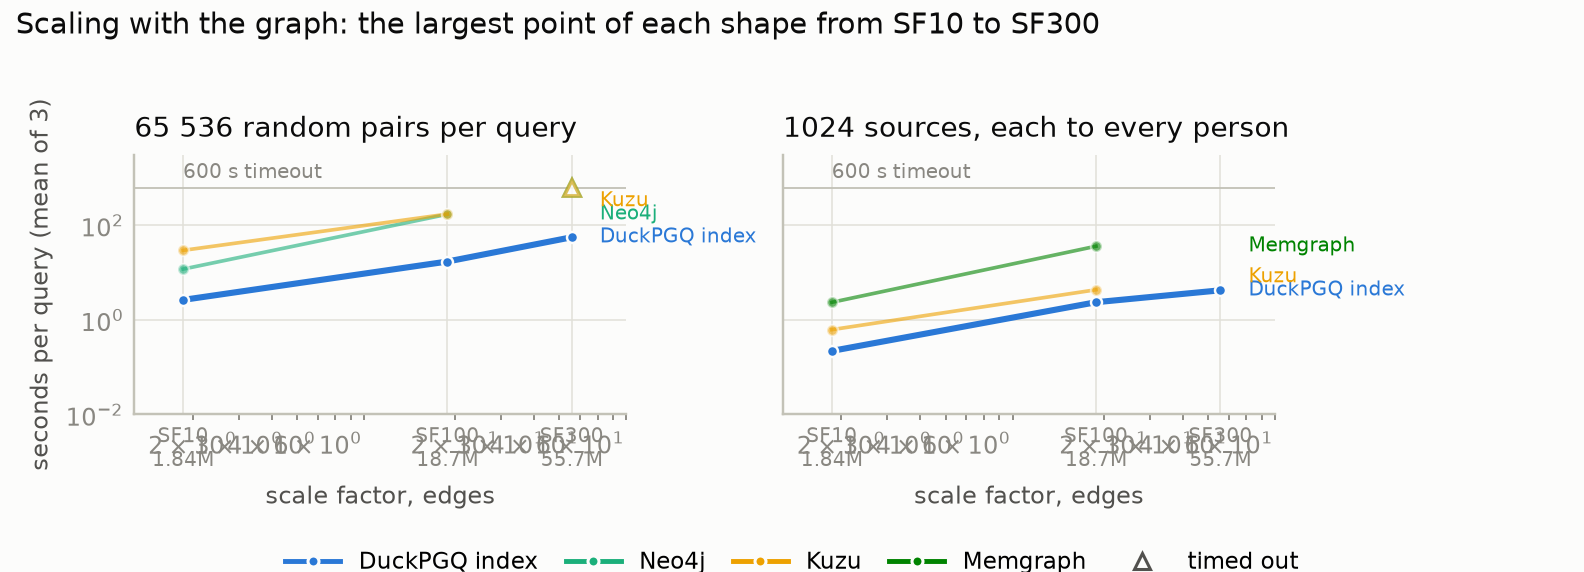
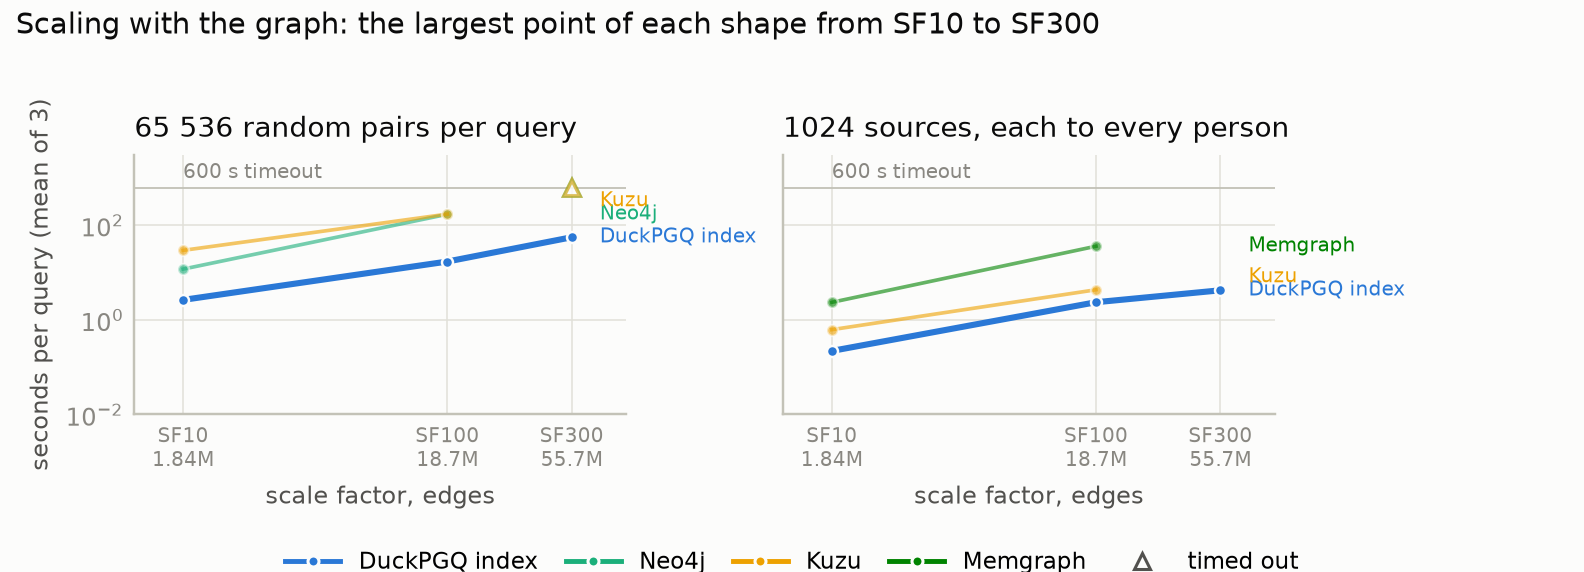
Figures: no minor tick labels on the scaling figure's log axis

diff --git a/scripts/plot_sweep_results.py b/scripts/plot_sweep_results.py
@@ -397,6 +397,7 @@ def scaling_figure(filename):
         direct_labels(ax, label_positions, edges["300"] * 1.15, factor=1.9)
         ax.set_xticks([edges[sf] for sf in SCALE_FACTORS])
         ax.set_xticklabels([f"SF{sf}\n{edges[sf]}M" for sf in SCALE_FACTORS], fontsize=6.5)
+        ax.set_xticks([], minor=True)  # no minor tick labels on the three-point log axis
         ax.set_xlim(1.2, 90)
         ax.set_xlabel("scale factor, edges")
         ax.set_title(title, loc="left")
